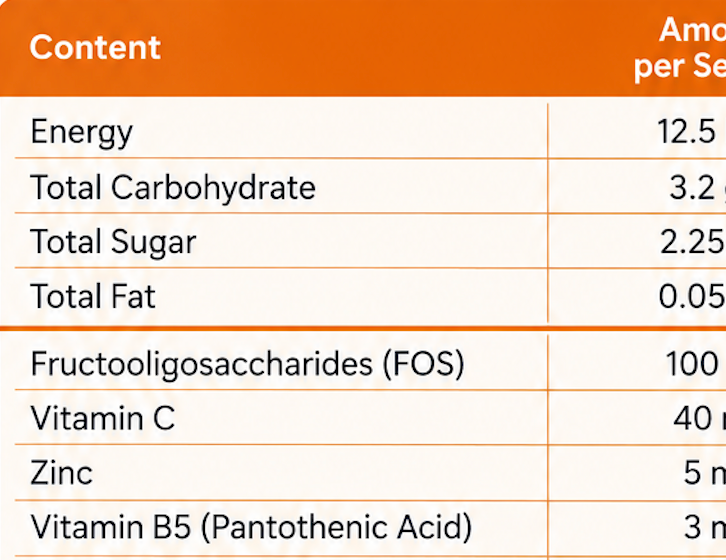
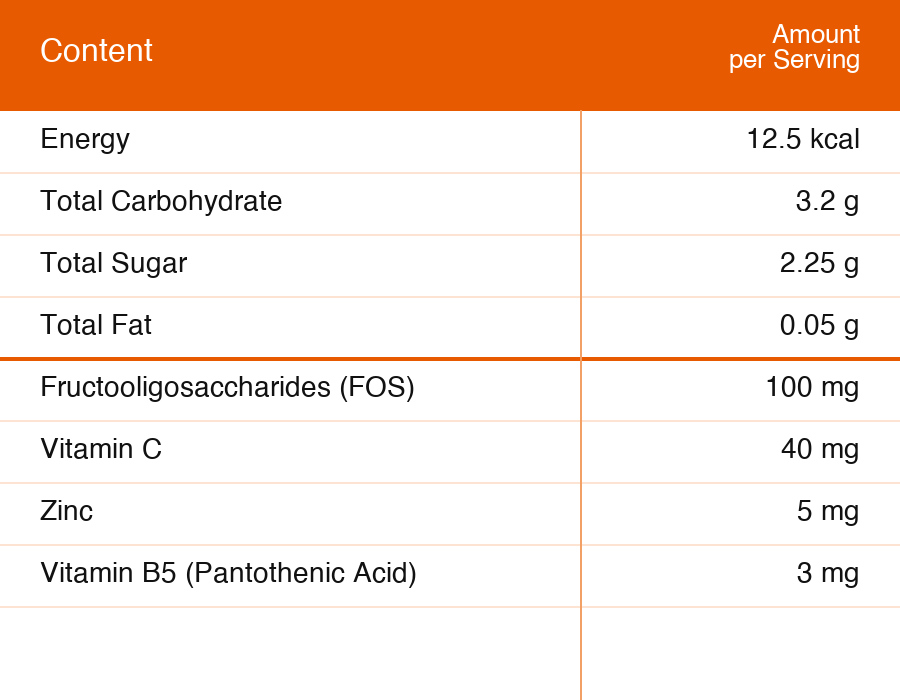
Fix ingredients table image to show full uncropped nutrition details

Changed region(s): [[0.0, 0.0304, 1.0, 1.0], [0.0303, 0.0607, 0.2424, 0.1214]]

diff --git a/src/components/ProductModal.tsx b/src/components/ProductModal.tsx
@@ -40,15 +40,19 @@ export const ProductModal: React.FC<ProductModalProps> = ({ product, onClose }) 
           <div className="product-detail-visual">
             <div className="product-badge product-detail-badge">{product.badge}</div>
 
-            <div style={{ position: 'relative', width: '100%', display: 'flex', justifyContent: 'center' }}>
+            <div style={{ position: 'relative', width: '100%', display: 'flex', justifyContent: 'center', alignItems: 'center', minHeight: '260px' }}>
               <img
                 src={allImages[activeImgIndex] || product.image}
                 alt={`${product.name} - View ${activeImgIndex + 1}`}
                 className="product-detail-image"
                 style={{
-                  maxHeight: '320px',
+                  maxHeight: '340px',
+                  maxWidth: '100%',
+                  width: 'auto',
+                  height: 'auto',
                   objectFit: 'contain',
                   borderRadius: '12px',
+                  boxShadow: activeImgIndex === 1 ? '0 4px 20px rgba(0,0,0,0.08)' : 'none',
                   transition: 'all 0.25s ease'
                 }}
               />

diff --git a/src/components/ProductCard.tsx b/src/components/ProductCard.tsx
@@ -38,6 +38,13 @@ export const ProductCard: React.FC<ProductCardProps> = ({ product, onQuickView }
           src={allImages[activeImgIndex] || product.image}
           alt={`${product.name} - View ${activeImgIndex + 1}`}
           loading="lazy"
+          style={{
+            objectFit: 'contain',
+            maxWidth: '100%',
+            maxHeight: '100%',
+            borderRadius: activeImgIndex === 1 ? '8px' : '0',
+            padding: activeImgIndex === 1 ? '0.25rem' : '0'
+          }}
         />
 
         {hasMultipleImages && (
